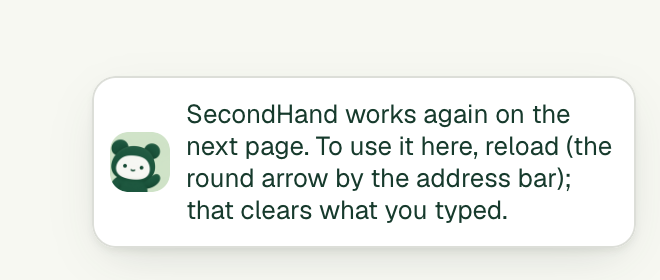
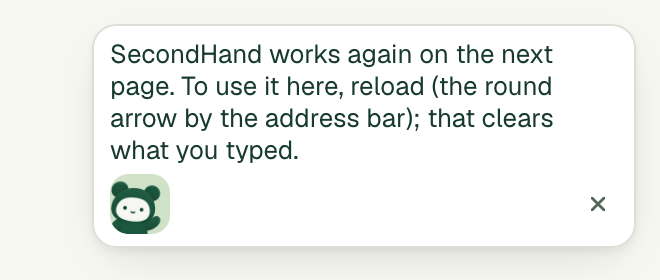
feat: let the update cards be hidden, and size them to say all of it
The card that says SecondHand was updated, and the one left behind after
it restarted, had no way to be hidden: only the worker sizes a card's
frame, and it is older than the card or gone. And they had to fit the
frame they had, so the reload card fell back to a short line without
"that clears what you typed".

The page's content script now tells its card, once the frame loads,
that it can be asked directly, and takes the same size request the
worker passes on, from that frame only: a page's script can post a
message too, but never as the card. An update card that heard it is
drawn as any card is, with the whole notice, Restart and the button that
hides it. A card whose page script is older keeps the compact notice, as
before.

diff --git a/extension/panel.js b/extension/panel.js
@@ -147,6 +147,14 @@
     // is asked once for a frame with room for a line, in the oldest form of that request.
     let outdatedKey = 'panel.outdated';
     let roomAsked = false;
+    // The page's content script said it can size this card's frame when asked directly, which an outdated card
+    // needs: its worker can't (it is older than the card, or gone after SecondHand restarted).
+    let pageSizes = false;
+    window.addEventListener('message', event => {
+      if (event.source !== window.parent || event.data?.type !== 'secondhand:cardHello' || pageSizes) return;
+      pageSizes = true;
+      render();
+    });
     // What an outdated widget says: the whole of it, or the short form when its frame can't hold the whole.
     const OUTDATED_LINES = { 'panel.outdated': ['widget.outdatedLong', 'widget.outdated'], 'panel.reloadPage': ['panel.reloadPage', 'panel.reloadPageShort'] };
     let ai = { note: null, reason: '' };
@@ -177,10 +185,14 @@
     function render() {
       // There is a card for this page, unless the reader hid it. An outdated card keeps its steps on screen.
       const card = known || autopilot || outdated;
-      const pill = card && collapsed && !outdated;
+      // An outdated card can be hidden too, when the page's content script can be asked directly (see below).
+      const pill = card && collapsed && (!outdated || pageSizes);
       $('widget').hidden = !card || pill;
-      $('widget').classList.toggle('outdated', outdated);
-      $('widget').classList.toggle('restartable', outdated && outdatedKey !== 'panel.reloadPage');
+      // An outdated card the page can size directly is drawn as any other card; one it can't keeps the compact
+      // notice that fits the frame it already has.
+      const direct = outdated && pageSizes;
+      $('widget').classList.toggle('outdated', outdated && !direct);
+      $('widget').classList.toggle('restartable', outdated && !direct && outdatedKey !== 'panel.reloadPage');
       $('pill').hidden = card && !pill;
       // A hidden card that waits for the reader marks its logo with a dot and says so in the logo's name.
       const needYou = ['done', 'waiting'].includes(result?.state) ? fieldKeys(result.needYou) : [];
@@ -196,7 +208,7 @@
       $('unlock').hidden = outdated || autopilot || !locked;
       $('open-app').hidden = outdated || autopilot || !closed;
       $('restart').hidden = !outdated || outdatedKey === 'panel.reloadPage';
-      $('hide').hidden = outdated;
+      $('hide').hidden = outdated && !pageSizes;
       $('autofill').disabled = working;
       // Answers still to give show as a link that finds each one in the form.
       $('need-you').hidden = outdated || !needYou.length;
@@ -217,20 +229,25 @@
       $('translate-offer').hidden = outdated || Boolean(note) || working || !known || !pageLanguage || pageLanguage === language;
       // When the frame can't hold the whole notice, the short form says what to do. Letters overhang
       // their line by a pixel or so; a line cut off is 14px more.
-      if (outdated && $('widget-text').scrollHeight - $('widget-text').clientHeight > 7) $('widget-text').textContent = t((OUTDATED_LINES[outdatedKey] || OUTDATED_LINES['panel.outdated'])[1]);
+      if (outdated && !direct && $('widget-text').scrollHeight - $('widget-text').clientHeight > 7) $('widget-text').textContent = t((OUTDATED_LINES[outdatedKey] || OUTDATED_LINES['panel.outdated'])[1]);
       // Screen readers hear the same words, from a region outside the card, so a card the reader hid still speaks.
       // A page with nothing for SecondHand to do has no card, and says nothing.
       const spoken = card ? $('widget-text').textContent : '';
       if ($('widget-status').textContent !== spoken) $('widget-status').textContent = spoken;
-      if (outdated && outdatedKey !== 'panel.reloadPage' && !roomAsked) {
+      if (outdated && !direct && outdatedKey !== 'panel.reloadPage' && !roomAsked) {
         roomAsked = true;
         send({ type: 'ui:widgetSize', line: true }).catch(() => {});
       }
       // The widget is as wide and as tall as what it shows, up to 272px by 150px (see panel.css). An outdated
       // worker is not asked for anything more; its notice fills the frame the widget already has.
       const room = message || !$('translate-offer').hidden;
-      const size = outdated || $('widget').hidden ? frame.size : measure(message);
+      const size = (outdated && !direct) || $('widget').hidden ? frame.size : measure(message);
       if (!outdated && (room !== frame.line || JSON.stringify(size) !== JSON.stringify(frame.size) || pill !== frame.pill)) fitFrame(room, size, pill);
+      // The worker can't size an outdated card's frame, so the page's content script is asked directly, in the same terms.
+      if (direct && (room !== frame.line || JSON.stringify(size) !== JSON.stringify(frame.size) || pill !== frame.pill)) {
+        frame = { line: room, size, pill };
+        window.parent.postMessage({ type: 'secondhand:cardSize', line: room, ...size, ...(pill ? { pill } : {}) }, location.ancestorOrigins?.[0] || '*');
+      }
     }
     // The widget's own size, not its frame's, so it can ask for a wider frame than it has. While a
     // line shows, also its size for a narrow page (see content.js): as wide as its buttons alone, or

diff --git a/extension/generic-content.js b/extension/generic-content.js
@@ -54,6 +54,26 @@
     }
   }
 
+  let cardFrame = null;
+  // A card whose worker can't size its frame (an older build than the card, or none after SecondHand restarted)
+  // asks this script directly, in the same terms. Only the card's own frame is heard: a page's script can post a
+  // message too, but never as that frame.
+  const cardOrigin = topFrame ? chrome.runtime.getURL('').replace(/\/$/, '') : '';
+  // The widget's own size for its frame, from the worker or from the card itself: whether it shows a line, its
+  // measured width and height (and those a narrow page keeps), and whether the reader hid it to its logo.
+  const sizeAsked = message => typeof message?.line === 'boolean' && SIZES.every(key => message[key] === undefined || (/height$/i.test(key) ? tall : fits)(message[key])) &&
+    (message.pill === undefined || message.pill === true);
+  function fitCard(message) {
+    line = message.line;
+    card = Object.fromEntries(SIZES.filter(key => message[key] !== undefined).map(key => [key, message[key]]));
+    pill = message.pill === true;
+    if (panelHost) fitHost();
+  }
+  if (topFrame) window.addEventListener('message', event => {
+    if (!panelHost || !cardFrame || event.source !== cardFrame.contentWindow || event.origin !== cardOrigin) return;
+    if (event.data?.type === 'secondhand:cardSize' && sizeAsked(event.data)) fitCard(event.data);
+  });
+
   function ensurePanel() {
     if (!topFrame || !document.body) return;
     if (!panelHost) {
@@ -68,12 +88,14 @@
         'color-scheme': 'light', isolation: 'isolate'
       })) panelHost.style.setProperty(property, value, 'important');
       const shadow = panelHost.attachShadow({ mode: 'closed' });
-      const frame = document.createElement('iframe');
+      const frame = cardFrame = document.createElement('iframe');
       frame.src = chrome.runtime.getURL('panel.html?surface=launcher');
       frame.title = 'SecondHand autofill';
       frame.setAttribute('sandbox', 'allow-scripts allow-same-origin');
       frame.setAttribute('allow', 'language-model; language-detector'); // lets the widget use Chrome's on-device AI and language detector
       frame.referrerPolicy = 'no-referrer';
+      // Tells the card it can ask this script to hide it, should its worker be unable to.
+      frame.addEventListener('load', () => frame.contentWindow?.postMessage({ type: 'secondhand:cardHello' }, cardOrigin));
       for (const [property, value] of Object.entries({ width: '100%', height: '100%', display: 'block', border: '0', margin: '0', padding: '0', 'border-radius': '12px', background: 'transparent' })) frame.style.setProperty(property, value, 'important');
       shadow.append(frame);
     }
@@ -214,12 +236,8 @@
         // Every question's label for the applicant's translated list, and the language this document declares.
         const listed = withOwnPanelHidden(() => engine.questions(document));
         respond({ lang: document.documentElement.lang || '', questions: listed.map(({ id, label }) => ({ id, label })) });
-      } else if (message.type === 'secondhand:widgetSize' && typeof message.line === 'boolean' && SIZES.every(key => message[key] === undefined || (/height$/i.test(key) ? tall : fits)(message[key])) &&
-        (message.pill === undefined || message.pill === true) && topFrame) {
-        line = message.line;
-        card = Object.fromEntries(SIZES.filter(key => message[key] !== undefined).map(key => [key, message[key]]));
-        pill = message.pill === true;
-        if (panelHost) fitHost();
+      } else if (message.type === 'secondhand:widgetSize' && sizeAsked(message) && topFrame) {
+        fitCard(message);
         respond({ sized: Boolean(panelHost) });
       } else if (message.type === 'secondhand:generic:pageText') {
         // This frame's own words for the side panel's summary, and the language it declares. Never form values.

diff --git a/extension/content.js b/extension/content.js
@@ -56,6 +56,25 @@
     panelHost.style.setProperty('height', full ? `${size.height || (messageRow ? 86 : 46)}px` : '46px', 'important');
   }
 
+  // A card whose worker can't size its frame (an older build than the card, or none after SecondHand restarted)
+  // asks this script directly, in the same terms. Only the card's own frame is heard: a page's script can post a
+  // message too, but never as that frame.
+  const cardOrigin = chrome.runtime.getURL('').replace(/\/$/, '');
+  // The widget's own size for its frame, from the worker or from the card itself: whether it shows a line, its
+  // measured width and height (and those a narrow page keeps), and whether the reader hid it to its logo.
+  const sizeAsked = message => typeof message?.line === 'boolean' && SIZES.every(key => message[key] === undefined || (/height$/i.test(key) ? tall : fits)(message[key])) &&
+    (message.pill === undefined || message.pill === true);
+  function fitCard(message) {
+    messageRow = message.line;
+    card = Object.fromEntries(SIZES.filter(key => message[key] !== undefined).map(key => [key, message[key]]));
+    cardHidden = message.pill === true;
+    if (panelHost) sizePanel();
+  }
+  window.addEventListener('message', event => {
+    if (!panelHost || !panelFrame || event.source !== panelFrame.contentWindow || event.origin !== cardOrigin) return;
+    if (event.data?.type === 'secondhand:cardSize' && sizeAsked(event.data)) fitCard(event.data);
+  });
+
   function ensurePanel() {
     if (!adapter.isSupportedUrl(location.href)) {
       pending = null;
@@ -80,6 +99,8 @@
       panelFrame.setAttribute('sandbox', 'allow-scripts allow-same-origin');
       panelFrame.setAttribute('allow', 'language-detector'); // lets the widget check the page's language on this computer
       panelFrame.referrerPolicy = 'no-referrer';
+      // Tells the card it can ask this script to hide it, should its worker be unable to.
+      panelFrame.addEventListener('load', () => panelFrame.contentWindow?.postMessage({ type: 'secondhand:cardHello' }, cardOrigin));
       for (const [property, value] of Object.entries({ width: '100%', height: '100%', display: 'block', border: '0', margin: '0', padding: '0', 'border-radius': 'inherit', background: 'transparent' })) panelFrame.style.setProperty(property, value, 'important');
       shadow.append(panelFrame);
     }
@@ -234,12 +255,8 @@
         respond(withOwnPanelHidden(questions));
       } else if (message.type === 'secondhand:pageText') {
         respond(withOwnPanelHidden(pageText));
-      } else if (message.type === 'secondhand:widgetSize' && typeof message.line === 'boolean' && SIZES.every(key => message[key] === undefined || (/height$/i.test(key) ? tall : fits)(message[key])) &&
-        (message.pill === undefined || message.pill === true)) {
-        messageRow = message.line;
-        card = Object.fromEntries(SIZES.filter(key => message[key] !== undefined).map(key => [key, message[key]]));
-        cardHidden = message.pill === true;
-        if (panelHost) sizePanel();
+      } else if (message.type === 'secondhand:widgetSize' && sizeAsked(message)) {
+        fitCard(message);
         respond({ sized: Boolean(panelHost) });
       } else if (message.type === 'secondhand:generic:focus' && typeof message.id === 'string' && engine) {
         respond({ focused: Boolean(withOwnPanelHidden(() => engine.focusField(document, message.id))) });
